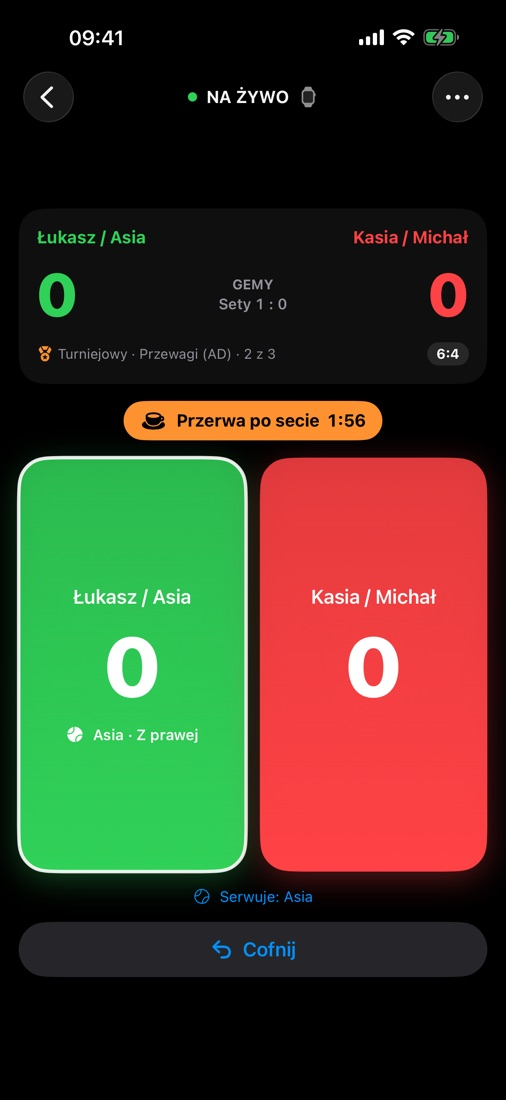
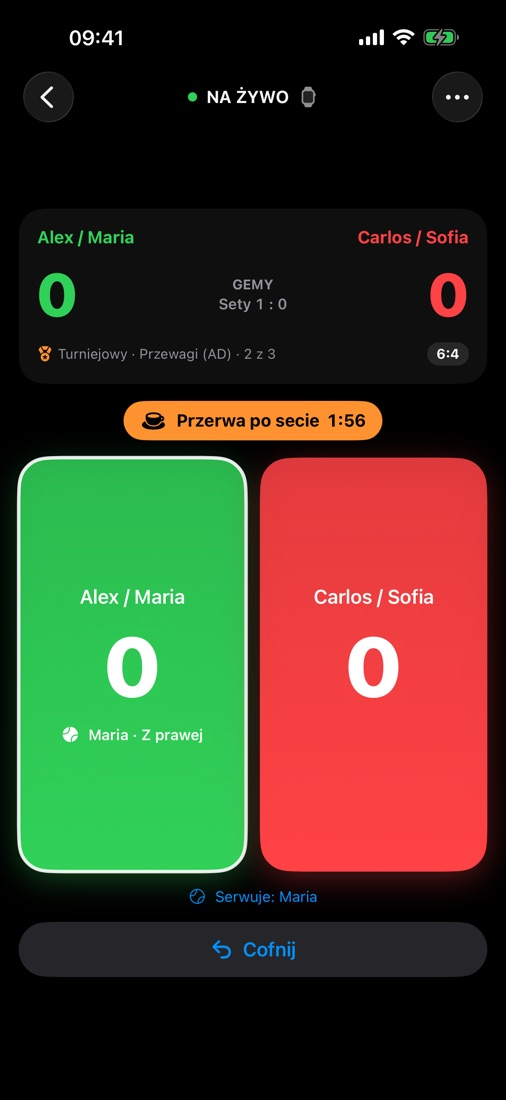
Submit Tapazo 1.0 (2): iPhone-only, English listing and new screenshots
From mlodylbn/padelscore-app@8fc90e3

diff --git a/index.html b/index.html
@@ -106,7 +106,7 @@
       </p>
     </div>
     <div class="devices">
-      <div class="phone"><img src="assets/iphone-score.jpg" width="506" height="1100" alt="Ekran meczu w Tapazo na iPhonie: Łukasz / Asia 40, Kasia / Michał 15, gemy 5:4, piłka setowa"></div>
+      <div class="phone"><img src="assets/iphone-score.jpg" width="506" height="1100" alt="Ekran meczu w Tapazo na iPhonie: Alex / Maria 40, Carlos / Sofia 15, gemy 5:4, piłka setowa"></div>
       <div class="watch"><img src="assets/watch-score.png" width="422" height="514" alt="Tapazo na Apple Watch: wynik i przycisk Double Tap"></div>
     </div>
   </div>
